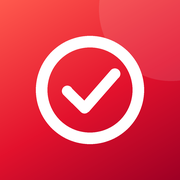
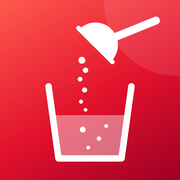
Nuevo icono: cacito vertiendo en el vaso
Claude-Session: https://claude.ai/code/session_01LqFmdkutYD1mmdcSTrAbYk

Changed region(s): [[0.1944, 0.0833, 1.0, 0.9167]]

diff --git a/sw.js b/sw.js
@@ -1,5 +1,5 @@
 // Guarda la app en el iPhone para que abra sin conexión.
-const CACHE = "creatina-v4";
+const CACHE = "creatina-v5";
 const FILES = ["./", "index.html", "manifest.webmanifest", "icon-180.png", "icon-192.png", "icon-512.png"];
 
 self.addEventListener("install", event => {
